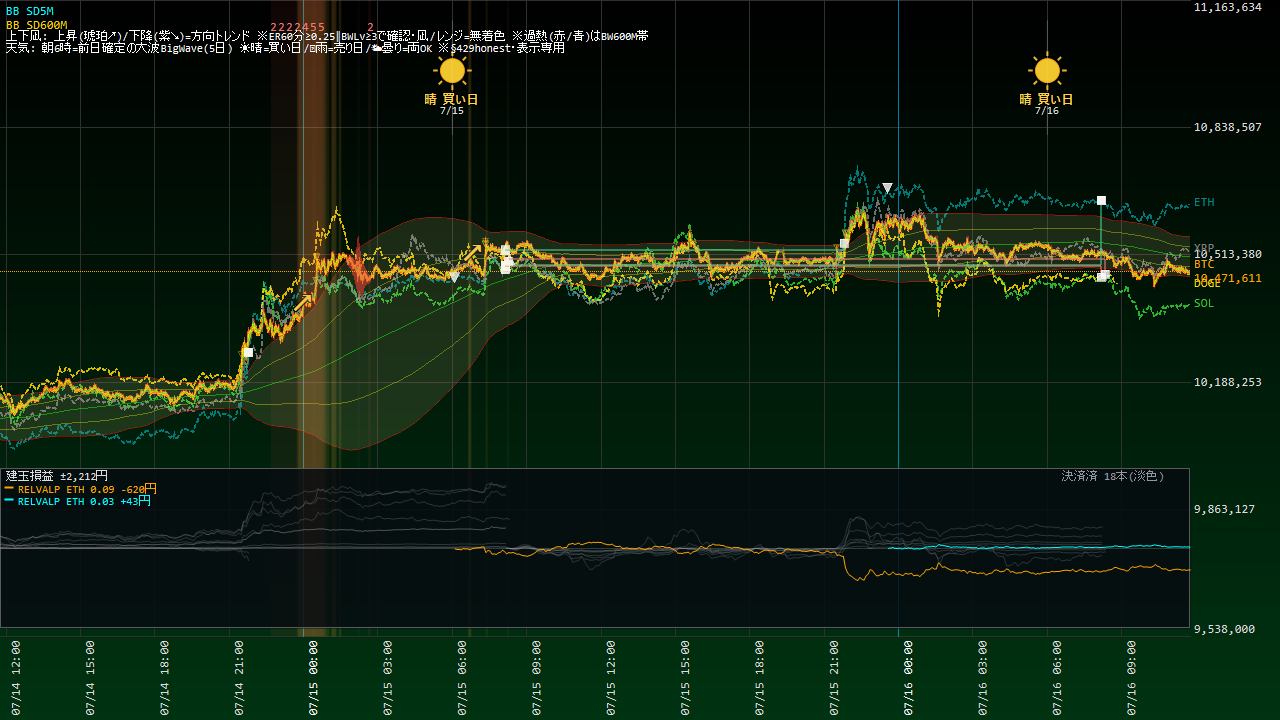
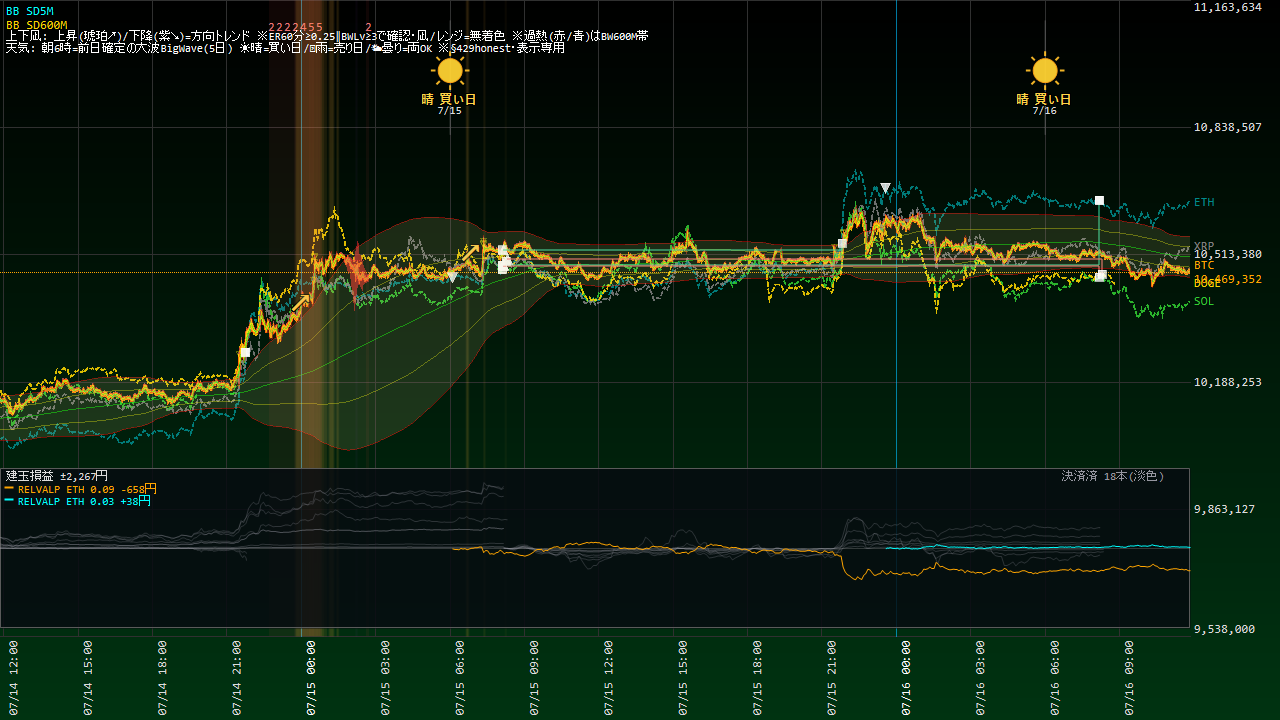
Coin100S 運用状況更新 07-16 11:53

diff --git a/coin100s-795hc4jfv8/index.html b/coin100s-795hc4jfv8/index.html
@@ -14,16 +14,16 @@ a{color:#60a5fa;text-decoration:none} a:hover{text-decoration:underline}
 .meta{color:#94a3b8;font-size:13px}</style>
 <script>setTimeout(function(){location.replace(location.pathname+"?t="+Date.now());},300000);</script></head><body>
 <h1>Coin100S ダッシュボード</h1>
-<p class="meta">スナップショット: 2026-07-16 11:46:55(自動リロード・最新化)</p>
+<p class="meta">スナップショット: 2026-07-16 11:52:55(自動リロード・最新化)</p>
 <div class="cards">
 <div class="card">建玉数<div class="v">2</div></div>
 <div class="card">本日損益<div class="v pos">+804円</div></div>
-<div class="card">評価損益<div class="v neg">-628円</div></div>
+<div class="card">評価損益<div class="v neg">-629円</div></div>
 </div>
 <h2>現在の建玉</h2>
-<table><tr><th>銘柄</th><th>側</th><th>数量</th><th>建値</th><th>含損益</th><th>レッグ</th></tr><tr><td>ETH_JPY</td><td>SELL</td><td>0.03</td><td>@313,051</td><td>+36円</td><td>RELVALP_SL700</td></tr><tr><td>ETH_JPY</td><td>SELL</td><td>0.09</td><td>@304,456</td><td>-664円</td><td>RELVALP_SELL</td></tr></table>
+<table><tr><th>銘柄</th><th>側</th><th>数量</th><th>建値</th><th>含損益</th><th>レッグ</th></tr><tr><td>ETH_JPY</td><td>SELL</td><td>0.03</td><td>@313,051</td><td>+36円</td><td>RELVALP_SL700</td></tr><tr><td>ETH_JPY</td><td>SELL</td><td>0.09</td><td>@304,456</td><td>-665円</td><td>RELVALP_SELL</td></tr></table>
 <p><a href="status.html"><b>▶ 運用状況の詳細(チャート・本日の取引・レジーム)</b></a></p>
 <h2>日報一覧</h2>
 <table><tr><th>取引日</th><th>実現損益</th><th>総括</th></tr><tr><td><a href='reports/20260715_Coin100S日報.html'>2026-07-15</a></td><td class="pos">+0円</td><td class='meta'>実取引: 新規6件/決済5件、実現損益 +0円。シグナル却下6件（最多: BW10M3_5M／トレンド方向ゲート(N分傾き上と不一致=逆張り方向のfade禁止)）。⚠警告/エラー 7件（要確認）。</td></tr><tr><td><a href='reports/20260714_Coin100S日報.html'>2026-07-14</a></td><td class="pos">+0円</td><td class='meta'>実取引: 新規6件/決済18件、実現損益 +0円。シグナル却下5件（最多: BW10M3_5M／トレンド方向ゲート(N分傾き上と不一致=逆張り方向のfade禁止)）。⚠警告/エラー 9件（要確認）。</td></tr><tr><td><a href='reports/20260713_Coin100S日報.html'>2026-07-13</a></td><td class="pos">+0円</td><td class='meta'>実取引: 新規5件/決済8件、実現損益 +0円。シグナル却下1件（最多: BW10M3_5M／トレンド方向ゲート(N分傾き上と不一致=逆張り方向のfade禁止)）。警告/孤児/エラーなし＝健全。</td></tr><tr><td><a href='reports/20260712_Coin100S日報.html'>2026-07-12</a></td><td class="pos">+0円</td><td class='meta'>実取引: 新規14件/決済6件、実現損益 +0円。シグナル却下5件（最多: BW10M3_5M／トレンド方向ゲート(N分傾き下と不一致=逆張り方向のfade禁止)）。⚠警告/エラー 2件（要確認）。</td></tr><tr><td><a href='reports/20260711_Coin100S日報.html'>2026-07-11</a></td><td class="pos">+0円</td><td class='meta'>実取引: 新規7件/決済6件、実現損益 +0円。⚠警告/エラー 52件（要確認）。</td></tr><tr><td><a href='reports/20260710_Coin100S日報.html'>2026-07-10</a></td><td class="pos">+0円</td><td class='meta'>実取引: 新規7件/決済6件、実現損益 +0円。シグナル却下6件（最多: BW10M3_5M／トレンド方向ゲート(N分傾き上と不一致=逆張り方向のfade禁止)）。警告/孤児/エラーなし＝健全。</td></tr><tr><td><a href='reports/20260709_Coin100S日報.html'>2026-07-09</a></td><td class="pos">+0円</td><td class='meta'>実取引: 新規8件/決済3件、実現損益 +0円。シグナル却下5件（最多: SD120M_5M／トレンド方向ゲート(N分傾き上と不一致=逆張り方向のfade禁止)）。警告/孤児/エラーなし＝健全。</td></tr><tr><td><a href='reports/20260708_Coin100S日報.html'>2026-07-08</a></td><td class="pos">+0円</td><td class='meta'>実取引: 新規2件/決済4件、実現損益 +0円。シグナル却下4件（最多: SD120M_5M／トレンド方向ゲート(N分傾き下と不一致=逆張り方向のfade禁止)）。警告/孤児/エラーなし＝健全。</td></tr><tr><td><a href='reports/20260707_Coin100S日報.html'>2026-07-07</a></td><td class="pos">+0円</td><td class='meta'>実取引: 新規8件/決済6件、実現損益 +0円。シグナル却下4件（最多: SD120M_5M／トレンド方向ゲート(N分傾き上と不一致=逆張り方向のfade禁止)）。⚠警告/エラー 258件（要確認）。</td></tr><tr><td><a href='reports/20260706_Coin100S日報.html'>2026-07-06</a></td><td class="pos">+0円</td><td class='meta'>実取引: 新規9件/決済6件、実現損益 +0円。シグナル却下9件（最多: SD120M_5M／トレンド方向ゲート(N分傾き上と不一致=逆張り方向のfade禁止)）。⚠警告/エラー 150件（要確認）。</td></tr><tr><td><a href='reports/20260705_Coin100S日報.html'>2026-07-05</a></td><td class="pos">+0円</td><td class='meta'>実取引: 新規8件/決済3件、実現損益 +0円。⚠警告/エラー 2件（要確認）。</td></tr><tr><td><a href='reports/20260704_Coin100S日報.html'>2026-07-04</a></td><td class="pos">+0円</td><td class='meta'>実取引: 新規1件/決済2件、実現損益 +0円。⚠警告/エラー 2件（要確認）。</td></tr><tr><td><a href='reports/20260703_Coin100S日報.html'>2026-07-03</a></td><td class="pos">+0円</td><td class='meta'>実取引: 新規5件/決済4件、実現損益 +0円。⚠警告/エラー 15件（要確認）。</td></tr><tr><td><a href='reports/20260702_Coin100S日報.html'>2026-07-02</a></td><td class="pos">+0円</td><td class='meta'>実取引: 新規7件/決済5件、実現損益 +0円。シグナル却下17件（最多: SD120M_5M／トレンド方向ゲート(N分傾き上と不一致=逆張り方向のfade禁止)）。⚠警告/エラー 26件（要確認）。</td></tr><tr><td><a href='reports/20260701_Coin100S日報.html'>2026-07-01</a></td><td class="pos">+0円</td><td class='meta'>実取引: 新規14件/決済8件、実現損益 +0円。シグナル却下14件（最多: SD120M_5M／ボラ軸ゲート(SDN%&amp;gt;N%=高ボラ/荒れレンジ)）。⚠警告/エラー 2件（要確認）。</td></tr><tr><td><a href='reports/20260630_Coin100S日報.html'>2026-06-30</a></td><td class="pos">+0円</td><td class='meta'>実取引: 新規0件/決済1件、実現損益 +0円。シグナル却下29件（最多: 微5M／当日枠N）。警告/孤児/エラーなし＝健全。</td></tr></table>
-<hr><p class="meta">更新: 2026-07-16 11:47:06 / 自動生成: tools/web_publish.py(§580)</p>
+<hr><p class="meta">更新: 2026-07-16 11:53:06 / 自動生成: tools/web_publish.py(§580)</p>
 </body></html>

diff --git a/coin100s-795hc4jfv8/status.html b/coin100s-795hc4jfv8/status.html
@@ -14,22 +14,22 @@ a{color:#60a5fa;text-decoration:none} a:hover{text-decoration:underline}
 .meta{color:#94a3b8;font-size:13px}</style>
 <script>setTimeout(function(){location.replace(location.pathname+"?t="+Date.now());},300000);</script></head><body>
 <h1>Coin100S 運用状況</h1>
-<p class="meta">スナップショット: 2026-07-16 11:46:55 / ページ生成: 2026-07-16 11:47:06(自動リロード・最新化) / <a href="index.html">目次へ</a></p>
+<p class="meta">スナップショット: 2026-07-16 11:52:55 / ページ生成: 2026-07-16 11:53:06(自動リロード・最新化) / <a href="index.html">目次へ</a></p>
 <div class="cards">
 <div class="card">建玉数<div class="v">2</div></div>
 <div class="card">本日損益<div class="v pos">+804円</div></div>
-<div class="card">評価損益<div class="v neg">-628円</div></div>
+<div class="card">評価損益<div class="v neg">-629円</div></div>
 </div>
 <h2>資産推移(直近30日)</h2>
-<img src="status_equity.png?t=1147" alt="equity">
+<img src="status_equity.png?t=1153" alt="equity">
 <h2>取引チャート(直近24h)</h2>
-<img src="status_chart.png?t=1147" alt="chart">
+<img src="status_chart.png?t=1153" alt="chart">
 <h2>建玉一覧</h2>
-<table><tr><th>銘柄</th><th>側</th><th>数量</th><th>建値</th><th>含損益</th><th>レッグ</th></tr><tr><td>ETH_JPY</td><td>SELL</td><td>0.03</td><td>@313,051</td><td>+36円</td><td>RELVALP_SL700</td></tr><tr><td>ETH_JPY</td><td>SELL</td><td>0.09</td><td>@304,456</td><td>-664円</td><td>RELVALP_SELL</td></tr></table>
+<table><tr><th>銘柄</th><th>側</th><th>数量</th><th>建値</th><th>含損益</th><th>レッグ</th></tr><tr><td>ETH_JPY</td><td>SELL</td><td>0.03</td><td>@313,051</td><td>+36円</td><td>RELVALP_SL700</td></tr><tr><td>ETH_JPY</td><td>SELL</td><td>0.09</td><td>@304,456</td><td>-665円</td><td>RELVALP_SELL</td></tr></table>
 <h2>実現決済履歴(直近15件・OrderId単位)</h2>
 <table><tr><th>決済時刻</th><th>レッグ</th><th>銘柄</th><th>実現損益</th></tr><tr><td>07-16 08:21</td><td>TENKI5D_REV_DOGE</td><td>DOGE</td><td class="neg">-125円</td></tr><tr><td>07-16 08:12</td><td>TENKI5D_REV_ETH</td><td>ETH</td><td class="pos">+740円</td></tr><tr><td>07-16 08:12</td><td>TENKI5D_REV_ETH</td><td>ETH</td><td class="pos">+555円</td></tr><tr><td>07-16 08:12</td><td>TENKI5D_REV_SOL</td><td>SOL</td><td class="neg">-193円</td></tr><tr><td>07-15 21:51</td><td>TENKI5D_REV_BTC</td><td>BTC</td><td class="pos">+94円</td></tr><tr><td>07-15 08:18</td><td>TENKI5D_REV_DOGE</td><td>DOGE</td><td class="pos">+858円</td></tr><tr><td>07-15 08:09</td><td>TENKI5D_REV_ETH</td><td>ETH</td><td class="pos">+601円</td></tr><tr><td>07-15 08:09</td><td>TENKI5D_REV_ETH</td><td>ETH</td><td class="pos">+2,402円</td></tr><tr><td>07-15 08:09</td><td>TENKI5D_REV_SOL</td><td>SOL</td><td class="pos">+1,812円</td></tr><tr><td>07-15 08:09</td><td>TENKI5D_REV_BTC</td><td>BTC</td><td class="pos">+1,850円</td></tr><tr><td>07-14 21:47</td><td>SIGFADE_ETH</td><td>ETH</td><td class="neg">-350円</td></tr><tr><td>07-14 21:47</td><td>SIGFADE_ETH</td><td>ETH</td><td class="neg">-141円</td></tr><tr><td>07-14 08:15</td><td>TENKI5D_REV_DOGE</td><td>DOGE</td><td class="pos">+267円</td></tr><tr><td>07-14 08:06</td><td>TENKI5D_REV_SOL</td><td>SOL</td><td class="pos">+1,011円</td></tr><tr><td>07-14 08:06</td><td>TENKI5D_REV_BTC</td><td>BTC</td><td class="pos">+819円</td></tr></table>
 <!-- §799c 「本取引日の実取引(6:00起点)」テーブルは公開ページから削除(ユーザー指示2026-07-15・数量/指値まで晒す情報漏れ)。建玉/実現損益は許可・実発注の生取引明細は非公開 -->
 <h2>現在レジーム(3軸・§570c)</h2>
-<ul><li>アルト対BTC 5日: <b>+5bps</b>(アルト優越=RELVAL逆風)</li><li>BTC ER240m: <b>0.077</b>(閾値0.25→レンジ(fade順風/BWTRD逆風))</li><li>BTC実現ボラ240m: <b>3.58</b> bps/分</li></ul>
+<ul><li>アルト対BTC 5日: <b>+5bps</b>(アルト優越=RELVAL逆風)</li><li>BTC ER240m: <b>0.077</b>(閾値0.25→レンジ(fade順風/BWTRD逆風))</li><li>BTC実現ボラ240m: <b>3.53</b> bps/分</li></ul>
 <hr><p class="meta">自動生成: tools/web_publish.py(§580・読み取り専用)。売買判断はアプリ本体。</p>
 </body></html>
